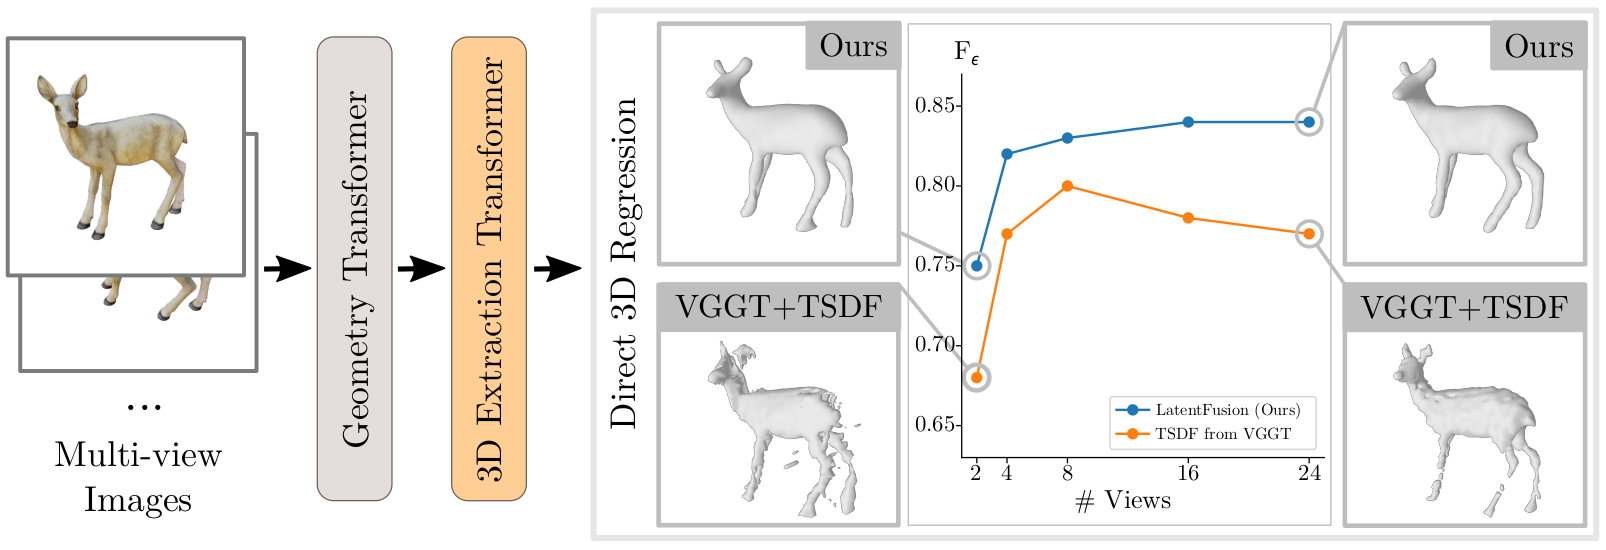
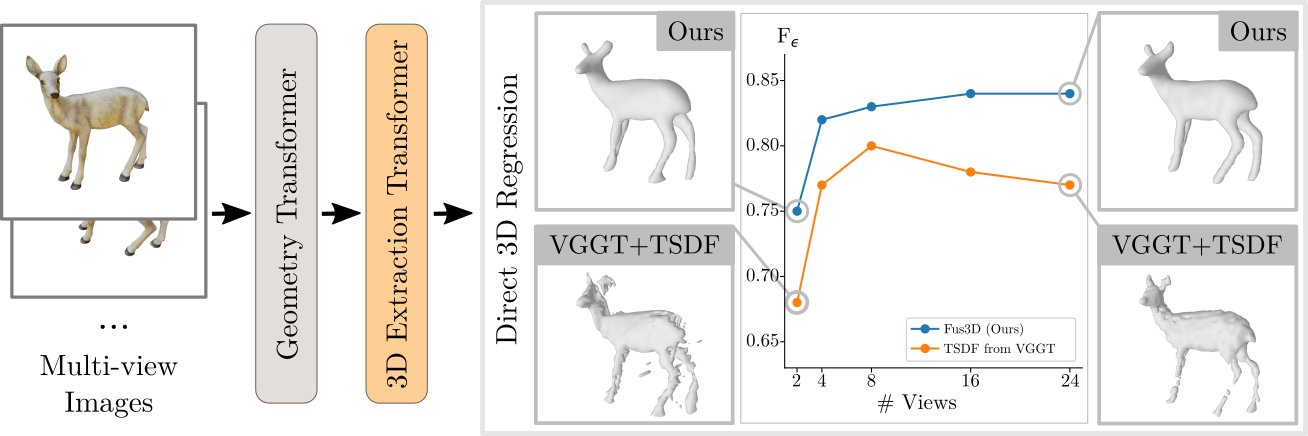
details

diff --git a/fus3d/index.html b/fus3d/index.html
@@ -296,27 +296,27 @@
         </div>
         <div class="row comp-margin">
             
-            <div class="col-md-2 col-md-offset-2" style="text-align: center;">
+            <div class="col-sm-2 col-sm-offset-2" style="text-align: center;">
                 Ours
             </div>
-            <div class="col-md-2" style="text-align: center;">
+            <div class="col-sm-2" style="text-align: center;">
                 VGGT+TSDF
             </div>
-            <div class="col-md-2" style="text-align: center;">
+            <div class="col-sm-2" style="text-align: center;">
                 Ours
             </div>
-            <div class="col-md-2" style="text-align: center;">
+            <div class="col-sm-2" style="text-align: center;">
                 VGGT+TSDF
             </div>
         </div>
         <div class="row comp-margin">
-            <div class="col-md-4 col-md-offset-2"> 
+            <div class="col-sm-4 col-sm-offset-2"> 
                 <div style="width: 100%; text-align: center;">
                 <video width="100%" class="video" id="tower2_ours_vs_vggttsdf" loop playsinline autoplay muted src="media/videos/tower2_latentfusionvsvggtfttsdf.mp4" ></video>
                 <canvas class="videoMerge" id="tower2_ours_vs_vggttsdfMerge"></canvas>
                 </div>
             </div>
-            <div class="col-md-4"> 
+            <div class="col-sm-4"> 
                 <div style="width: 100%; text-align: center;">
                 <video width="100%" class="video" id="tower2_ours_vs_poisson" loop playsinline autoplay muted src="media/videos/tower2_latentfusionvsvggtftpoisson.mp4" ></video>
                                         <canvas class="videoMerge" id="tower2_ours_vs_poissonMerge"></canvas>
@@ -324,34 +324,34 @@
             </div>
         </div>
         <div class="row comp-margin">
-            <div class="col-md-12 col-md-offset-2"> 
+            <div class="col-sm-12 col-sm-offset-2"> 
                 (Videos will play during mouse hovering / on touch on mobile version.)
             </div>
         </div>
 
         <div class="row comp-margin">
             
-            <div class="col-md-2 col-md-offset-2" style="text-align: center;">
+            <div class="col-sm-2 col-sm-offset-2" style="text-align: center;">
                 Ours
             </div>
-            <div class="col-md-2" style="text-align: center;">
+            <div class="col-sm-2" style="text-align: center;">
                 VGGT+TSDF
             </div>
-            <div class="col-md-2" style="text-align: center;">
+            <div class="col-sm-2" style="text-align: center;">
                 Ours
             </div>
-            <div class="col-md-2" style="text-align: center;">
+            <div class="col-sm-2" style="text-align: center;">
                 VGGT+TSDF
             </div>
         </div>
         <div class="row comp-margin">
-            <div class="col-md-4 col-md-offset-2"> 
+            <div class="col-sm-4 col-sm-offset-2"> 
                 <div style="width: 100%; text-align: center;">
                 <video width="100%" class="video" id="apple2_ours_vs_vggttsdf" loop playsinline autoplay muted src="media/videos/apple2_latentfusionvsvggtfttsdf.mp4" ></video>
                 <canvas class="videoMerge" id="apple2_ours_vs_vggttsdfMerge"></canvas>
                 </div>
             </div>
-            <div class="col-md-4"> 
+            <div class="col-sm-4"> 
                 <div style="width: 100%; text-align: center;">
                 <video width="100%" class="video" id="apple2_ours_vs_poisson" loop playsinline autoplay muted src="media/videos/apple2_latentfusionvsvggtftpoisson.mp4" ></video>
                                     <canvas class="videoMerge" id="apple2_ours_vs_poissonMerge"></canvas>

diff --git a/index.html b/index.html
@@ -296,7 +296,7 @@
         <div class="paper-copy">
           <p class="paper-title"><a href="https://lorafib.github.io/fus3d">Fus3D: Decoding Consolidated 3D Geometry from Feed-Forward Geometry Transformer Latents</a></p>
           <p class="paper-meta"><strong>Laura Fink</strong>, Linus Franke, George Kopanas, Marc Stamminger, Peter Hedman</p>
-          <p class="paper-meta"><em>under submission</em>, 2026</p>
+          <p class="paper-meta"><em>arxiv</em>, 2026</p>
           <p class="paper-links">
             <a href="https://lorafib.github.io/fus3d">project page</a>
             /
